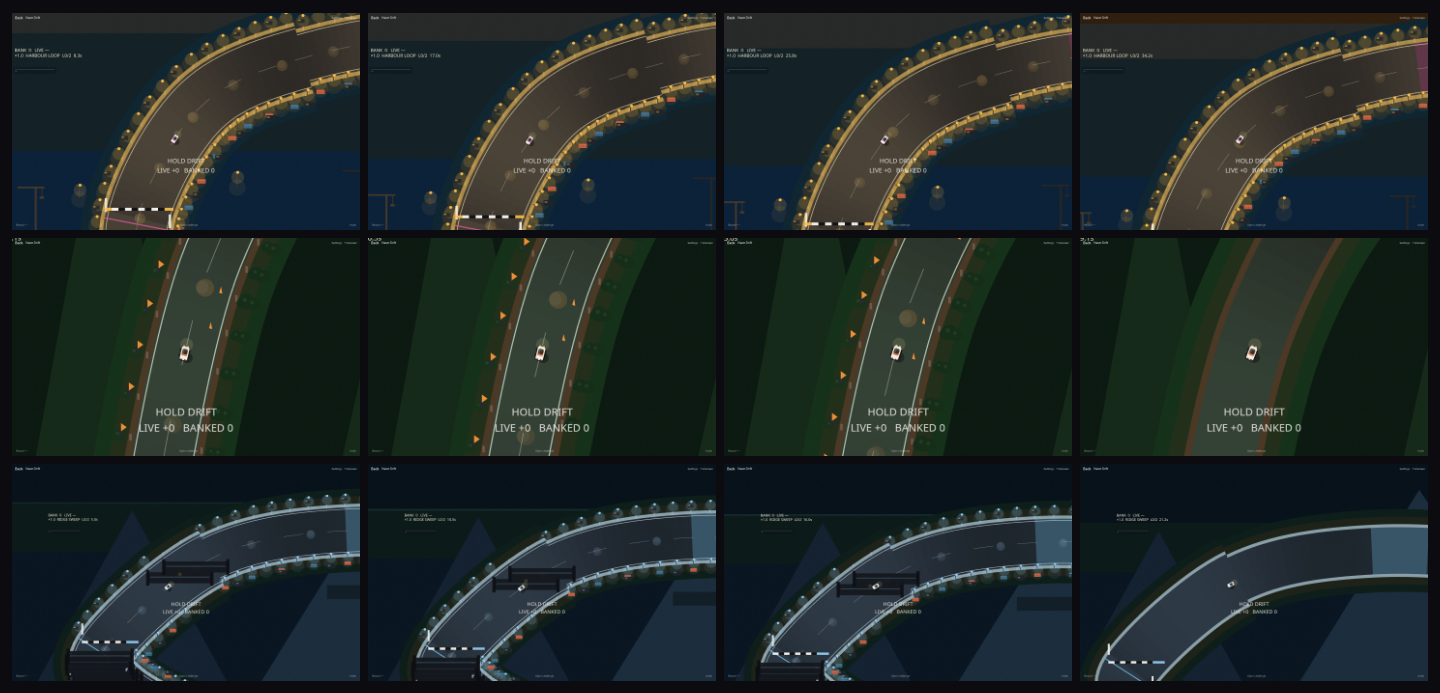
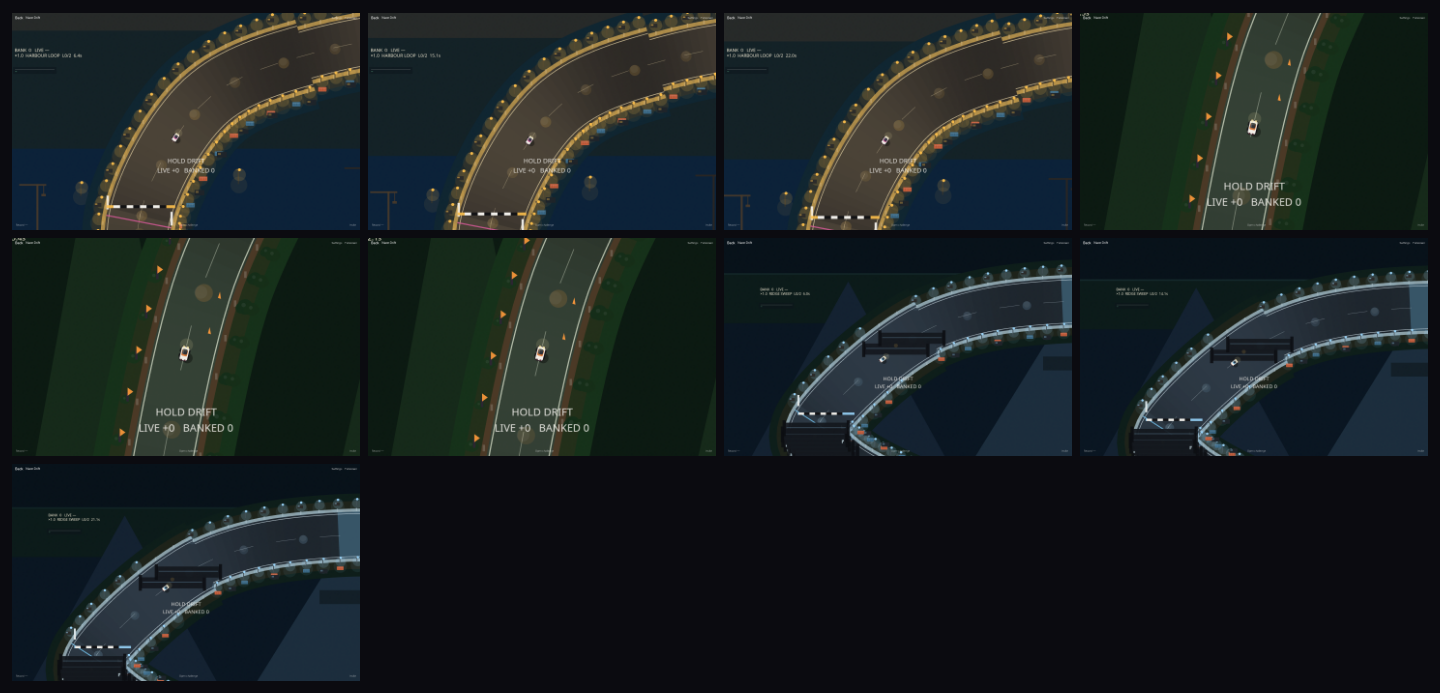
Update the two unstable home snapshots and the Neon capture set.
Swarm and Today now match a stable render, the carousel waits until hydration accepts ArrowRight, and the Neon proof keeps opening, mid, and distinctive frames.

diff --git a/docs/qa-production-closure/neon-contact-sheet.html b/docs/qa-production-closure/neon-contact-sheet.html
@@ -1,7 +1,7 @@
 <!doctype html><html><body style="margin:0;background:#0b0b10;color:#fff;font:12px sans-serif">
     <div id="labeled" style="display:grid;grid-template-columns:repeat(4,1fr);gap:8px;padding:12px">
-      <figure style="margin:0"><img src="neon/harbour-opening-unlabeled-1440.png" style="width:100%;display:block"/><figcaption>harbour opening</figcaption></figure><figure style="margin:0"><img src="neon/harbour-mid-unlabeled-1440.png" style="width:100%;display:block"/><figcaption>harbour mid</figcaption></figure><figure style="margin:0"><img src="neon/harbour-distinctive-unlabeled-1440.png" style="width:100%;display:block"/><figcaption>harbour distinctive</figcaption></figure><figure style="margin:0"><img src="neon/harbour-peak-unlabeled-1440.png" style="width:100%;display:block"/><figcaption>harbour peak</figcaption></figure><figure style="margin:0"><img src="neon/hairpin-opening-unlabeled-1440.png" style="width:100%;display:block"/><figcaption>hairpin opening</figcaption></figure><figure style="margin:0"><img src="neon/hairpin-mid-unlabeled-1440.png" style="width:100%;display:block"/><figcaption>hairpin mid</figcaption></figure><figure style="margin:0"><img src="neon/hairpin-distinctive-unlabeled-1440.png" style="width:100%;display:block"/><figcaption>hairpin distinctive</figcaption></figure><figure style="margin:0"><img src="neon/hairpin-peak-unlabeled-1440.png" style="width:100%;display:block"/><figcaption>hairpin peak</figcaption></figure><figure style="margin:0"><img src="neon/ridge-opening-unlabeled-1440.png" style="width:100%;display:block"/><figcaption>ridge opening</figcaption></figure><figure style="margin:0"><img src="neon/ridge-mid-unlabeled-1440.png" style="width:100%;display:block"/><figcaption>ridge mid</figcaption></figure><figure style="margin:0"><img src="neon/ridge-distinctive-unlabeled-1440.png" style="width:100%;display:block"/><figcaption>ridge distinctive</figcaption></figure><figure style="margin:0"><img src="neon/ridge-peak-unlabeled-1440.png" style="width:100%;display:block"/><figcaption>ridge peak</figcaption></figure>
+      <figure style="margin:0"><img src="neon/harbour-opening-unlabeled-1440.png" style="width:100%;display:block"/><figcaption>harbour opening</figcaption></figure><figure style="margin:0"><img src="neon/harbour-mid-unlabeled-1440.png" style="width:100%;display:block"/><figcaption>harbour mid</figcaption></figure><figure style="margin:0"><img src="neon/harbour-distinctive-unlabeled-1440.png" style="width:100%;display:block"/><figcaption>harbour distinctive</figcaption></figure><figure style="margin:0"><img src="neon/hairpin-opening-unlabeled-1440.png" style="width:100%;display:block"/><figcaption>hairpin opening</figcaption></figure><figure style="margin:0"><img src="neon/hairpin-mid-unlabeled-1440.png" style="width:100%;display:block"/><figcaption>hairpin mid</figcaption></figure><figure style="margin:0"><img src="neon/hairpin-distinctive-unlabeled-1440.png" style="width:100%;display:block"/><figcaption>hairpin distinctive</figcaption></figure><figure style="margin:0"><img src="neon/ridge-opening-unlabeled-1440.png" style="width:100%;display:block"/><figcaption>ridge opening</figcaption></figure><figure style="margin:0"><img src="neon/ridge-mid-unlabeled-1440.png" style="width:100%;display:block"/><figcaption>ridge mid</figcaption></figure><figure style="margin:0"><img src="neon/ridge-distinctive-unlabeled-1440.png" style="width:100%;display:block"/><figcaption>ridge distinctive</figcaption></figure>
     </div>
     <div id="unlabeled" style="display:grid;grid-template-columns:repeat(4,1fr);gap:8px;padding:12px">
-      <img src="neon/harbour-opening-unlabeled-1440.png" style="width:100%;display:block"/><img src="neon/harbour-mid-unlabeled-1440.png" style="width:100%;display:block"/><img src="neon/harbour-distinctive-unlabeled-1440.png" style="width:100%;display:block"/><img src="neon/harbour-peak-unlabeled-1440.png" style="width:100%;display:block"/><img src="neon/hairpin-opening-unlabeled-1440.png" style="width:100%;display:block"/><img src="neon/hairpin-mid-unlabeled-1440.png" style="width:100%;display:block"/><img src="neon/hairpin-distinctive-unlabeled-1440.png" style="width:100%;display:block"/><img src="neon/hairpin-peak-unlabeled-1440.png" style="width:100%;display:block"/><img src="neon/ridge-opening-unlabeled-1440.png" style="width:100%;display:block"/><img src="neon/ridge-mid-unlabeled-1440.png" style="width:100%;display:block"/><img src="neon/ridge-distinctive-unlabeled-1440.png" style="width:100%;display:block"/><img src="neon/ridge-peak-unlabeled-1440.png" style="width:100%;display:block"/>
+      <img src="neon/harbour-opening-unlabeled-1440.png" style="width:100%;display:block"/><img src="neon/harbour-mid-unlabeled-1440.png" style="width:100%;display:block"/><img src="neon/harbour-distinctive-unlabeled-1440.png" style="width:100%;display:block"/><img src="neon/hairpin-opening-unlabeled-1440.png" style="width:100%;display:block"/><img src="neon/hairpin-mid-unlabeled-1440.png" style="width:100%;display:block"/><img src="neon/hairpin-distinctive-unlabeled-1440.png" style="width:100%;display:block"/><img src="neon/ridge-opening-unlabeled-1440.png" style="width:100%;display:block"/><img src="neon/ridge-mid-unlabeled-1440.png" style="width:100%;display:block"/><img src="neon/ridge-distinctive-unlabeled-1440.png" style="width:100%;display:block"/>
     </div></body></html>

diff --git a/e2e/visual.spec.ts b/e2e/visual.spec.ts
@@ -1,5 +1,21 @@
-import { test, expect } from "@playwright/test";
+import { test, expect, type Page } from "@playwright/test";
 import { settleVisual, shot, stabilizeVisual } from "./visual-helpers";
+
+async function stepCarousel(page: Page) {
+  const before = ((await page.locator("h1").first().textContent()) ?? "").trim();
+  for (let i = 0; i < 5; i += 1) {
+    await page.keyboard.press("ArrowRight");
+    try {
+      await expect
+        .poll(async () => ((await page.locator("h1").first().textContent()) ?? "").trim(), { timeout: 2_000 })
+        .not.toBe(before);
+      return;
+    } catch {
+      /* The home key listener attaches after hydration. A press before that is ignored. */
+    }
+  }
+  throw new Error(`carousel stayed on ${before}`);
+}
 
 test.describe("visual regression", () => {
   test("Games Home Neon 1440", async ({ page }) => {
@@ -16,7 +32,7 @@ test.describe("visual regression", () => {
     await page.goto("/");
     await expect(page.getByRole("heading", { level: 1, name: "Neon Drift" })).toBeVisible();
     await expect(page.getByRole("link", { name: /Play|Continue/ }).first()).toBeVisible();
-    await page.keyboard.press("ArrowRight");
+    await stepCarousel(page);
     await expect(page.getByRole("heading", { level: 1, name: "Velocity Run" })).toBeVisible();
     await page.screenshot({ path: "test-results/visual-home-velocity-1440.png", fullPage: false });
     await expect(page).toHaveScreenshot("home-velocity-1440.png", shot);
@@ -27,9 +43,9 @@ test.describe("visual regression", () => {
     await page.goto("/");
     await expect(page.getByRole("heading", { level: 1, name: "Neon Drift" })).toBeVisible();
     await expect(page.getByRole("link", { name: /Play|Continue/ }).first()).toBeVisible();
-    await page.keyboard.press("ArrowRight");
+    await stepCarousel(page);
     await expect(page.getByRole("heading", { level: 1, name: "Velocity Run" })).toBeVisible();
-    await page.keyboard.press("ArrowRight");
+    await stepCarousel(page);
     await expect(page.getByRole("heading", { level: 1, name: "Swarm Protocol" })).toBeVisible();
     await settleVisual(page);
     await page.screenshot({ path: "test-results/visual-home-swarm-1440.png", fullPage: false });
